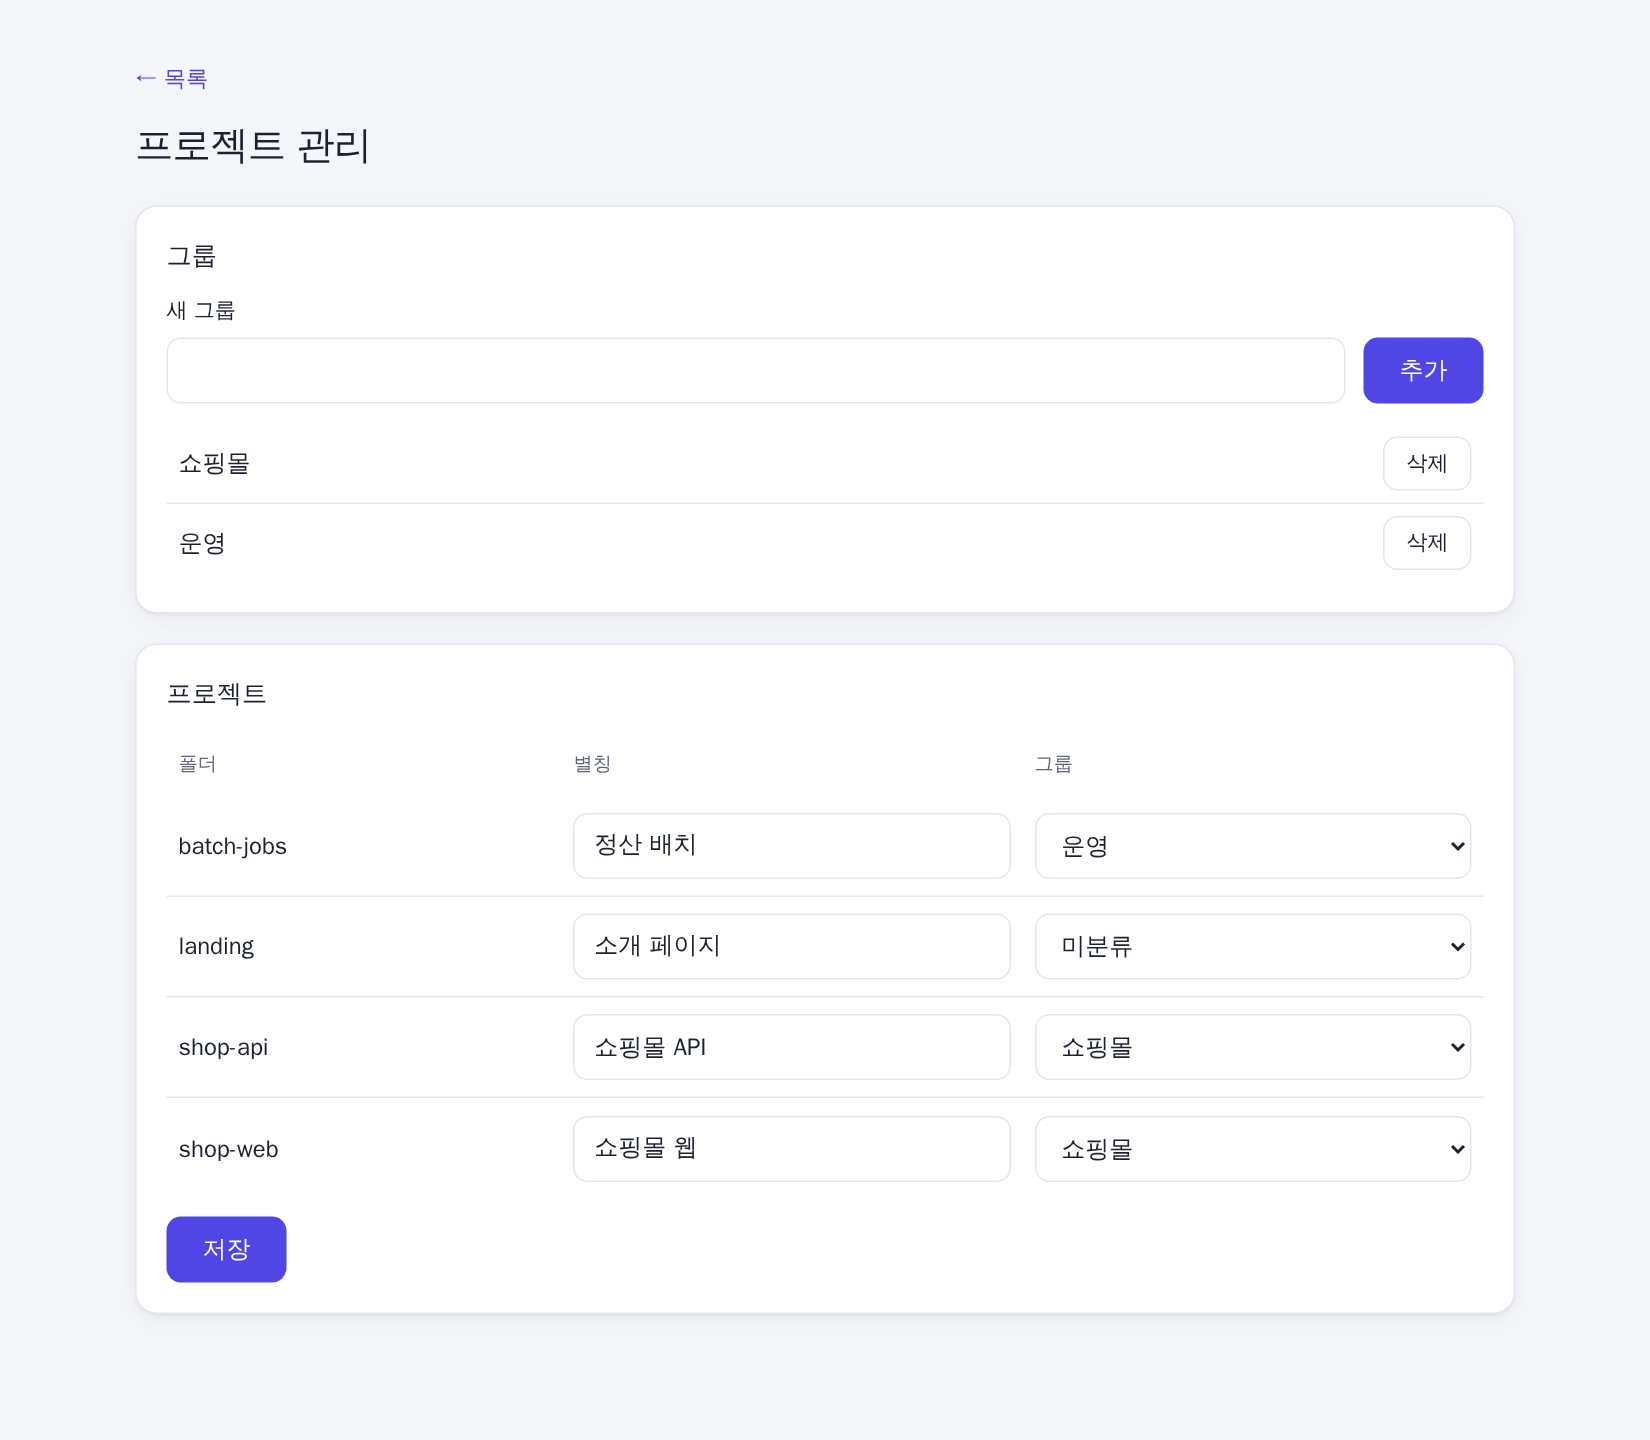
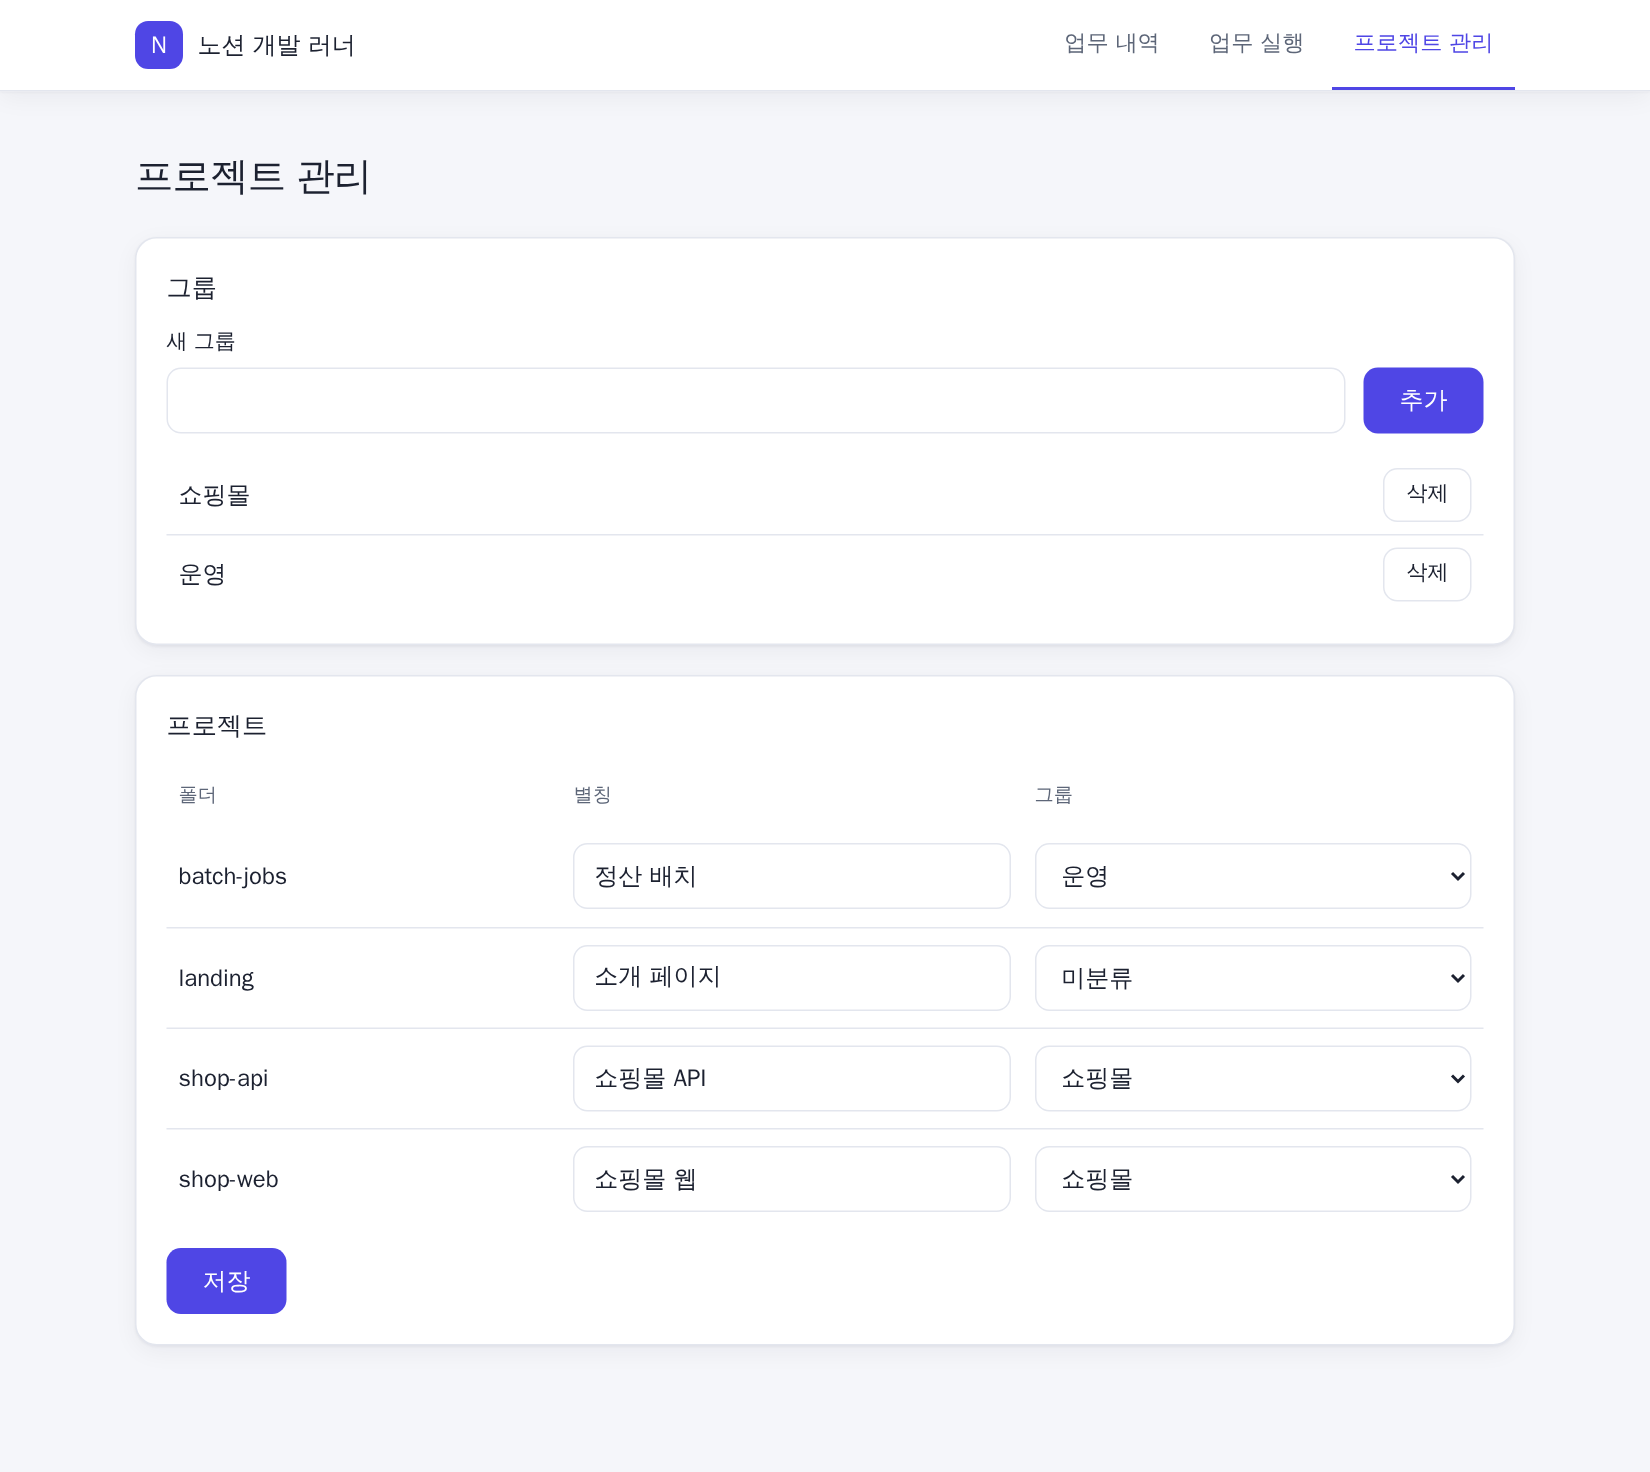
README 스크린샷을 업무 실행, 업무 내역 화면으로 교체

diff --git a/README.md b/README.md
@@ -2,7 +2,7 @@
 
 노션 문서에 할 일을 적고 프로젝트와 링크만 입력하면, Claude Code가 새 브랜치에서 개발하고 수정사항을 그 문서에 정리해 주는 개인용 로컬 웹 도구입니다.
 
-![노션 개발 러너 첫 화면: 프로젝트 선택, 노션 링크와 업무 내용 입력, 작업 시간 막대, 실시간 로그, 작업 기록](docs/screenshots/home.png)
+![업무 실행 화면: 프로젝트 선택, 노션 링크와 업무 내용 입력, 작업 시간 막대, 실시간 로그](docs/screenshots/execute.png)
 
 > 스크린샷의 프로젝트와 작업은 설명을 위한 가상 데이터입니다.
 
@@ -61,6 +61,8 @@ docker compose up -d --build
 한 번에 작업 하나만 실행할 수 있습니다.
 
 ## 업무 내역
+
+![업무 내역 화면: 제목, 프로젝트, 날짜 검색과 작업 목록](docs/screenshots/runs.png)
 
 ![작업 상세 화면의 자세히 보기: 도구별 작업 시간 막대, 프로젝트, 브랜치, 노션 링크, 시작과 종료 시각, 작업 로그](docs/screenshots/run-detail.png)
 
